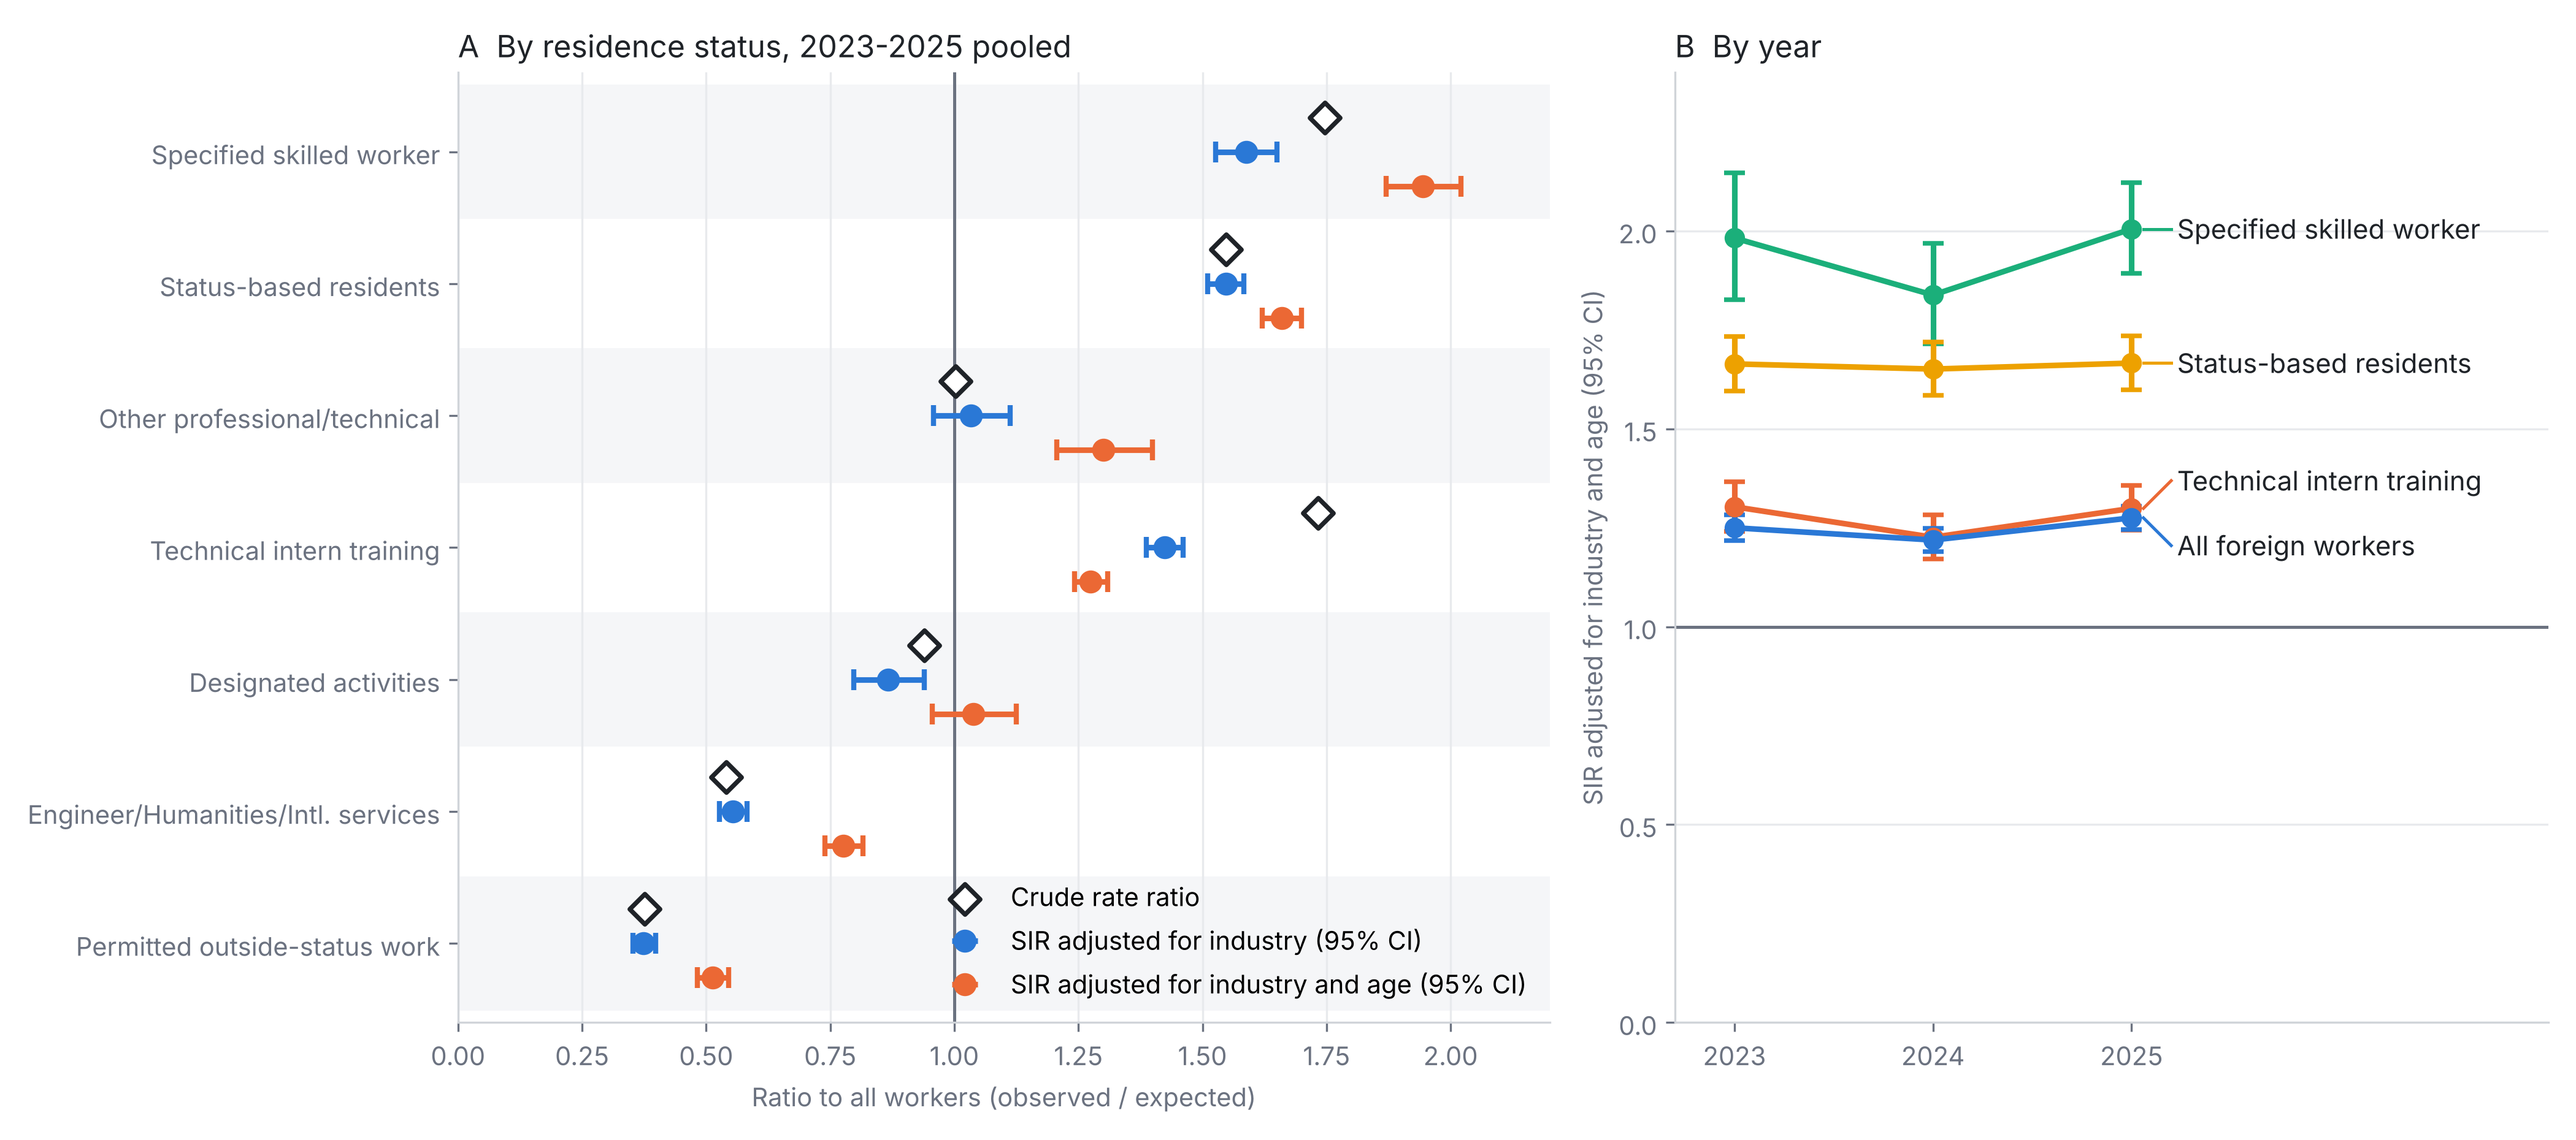
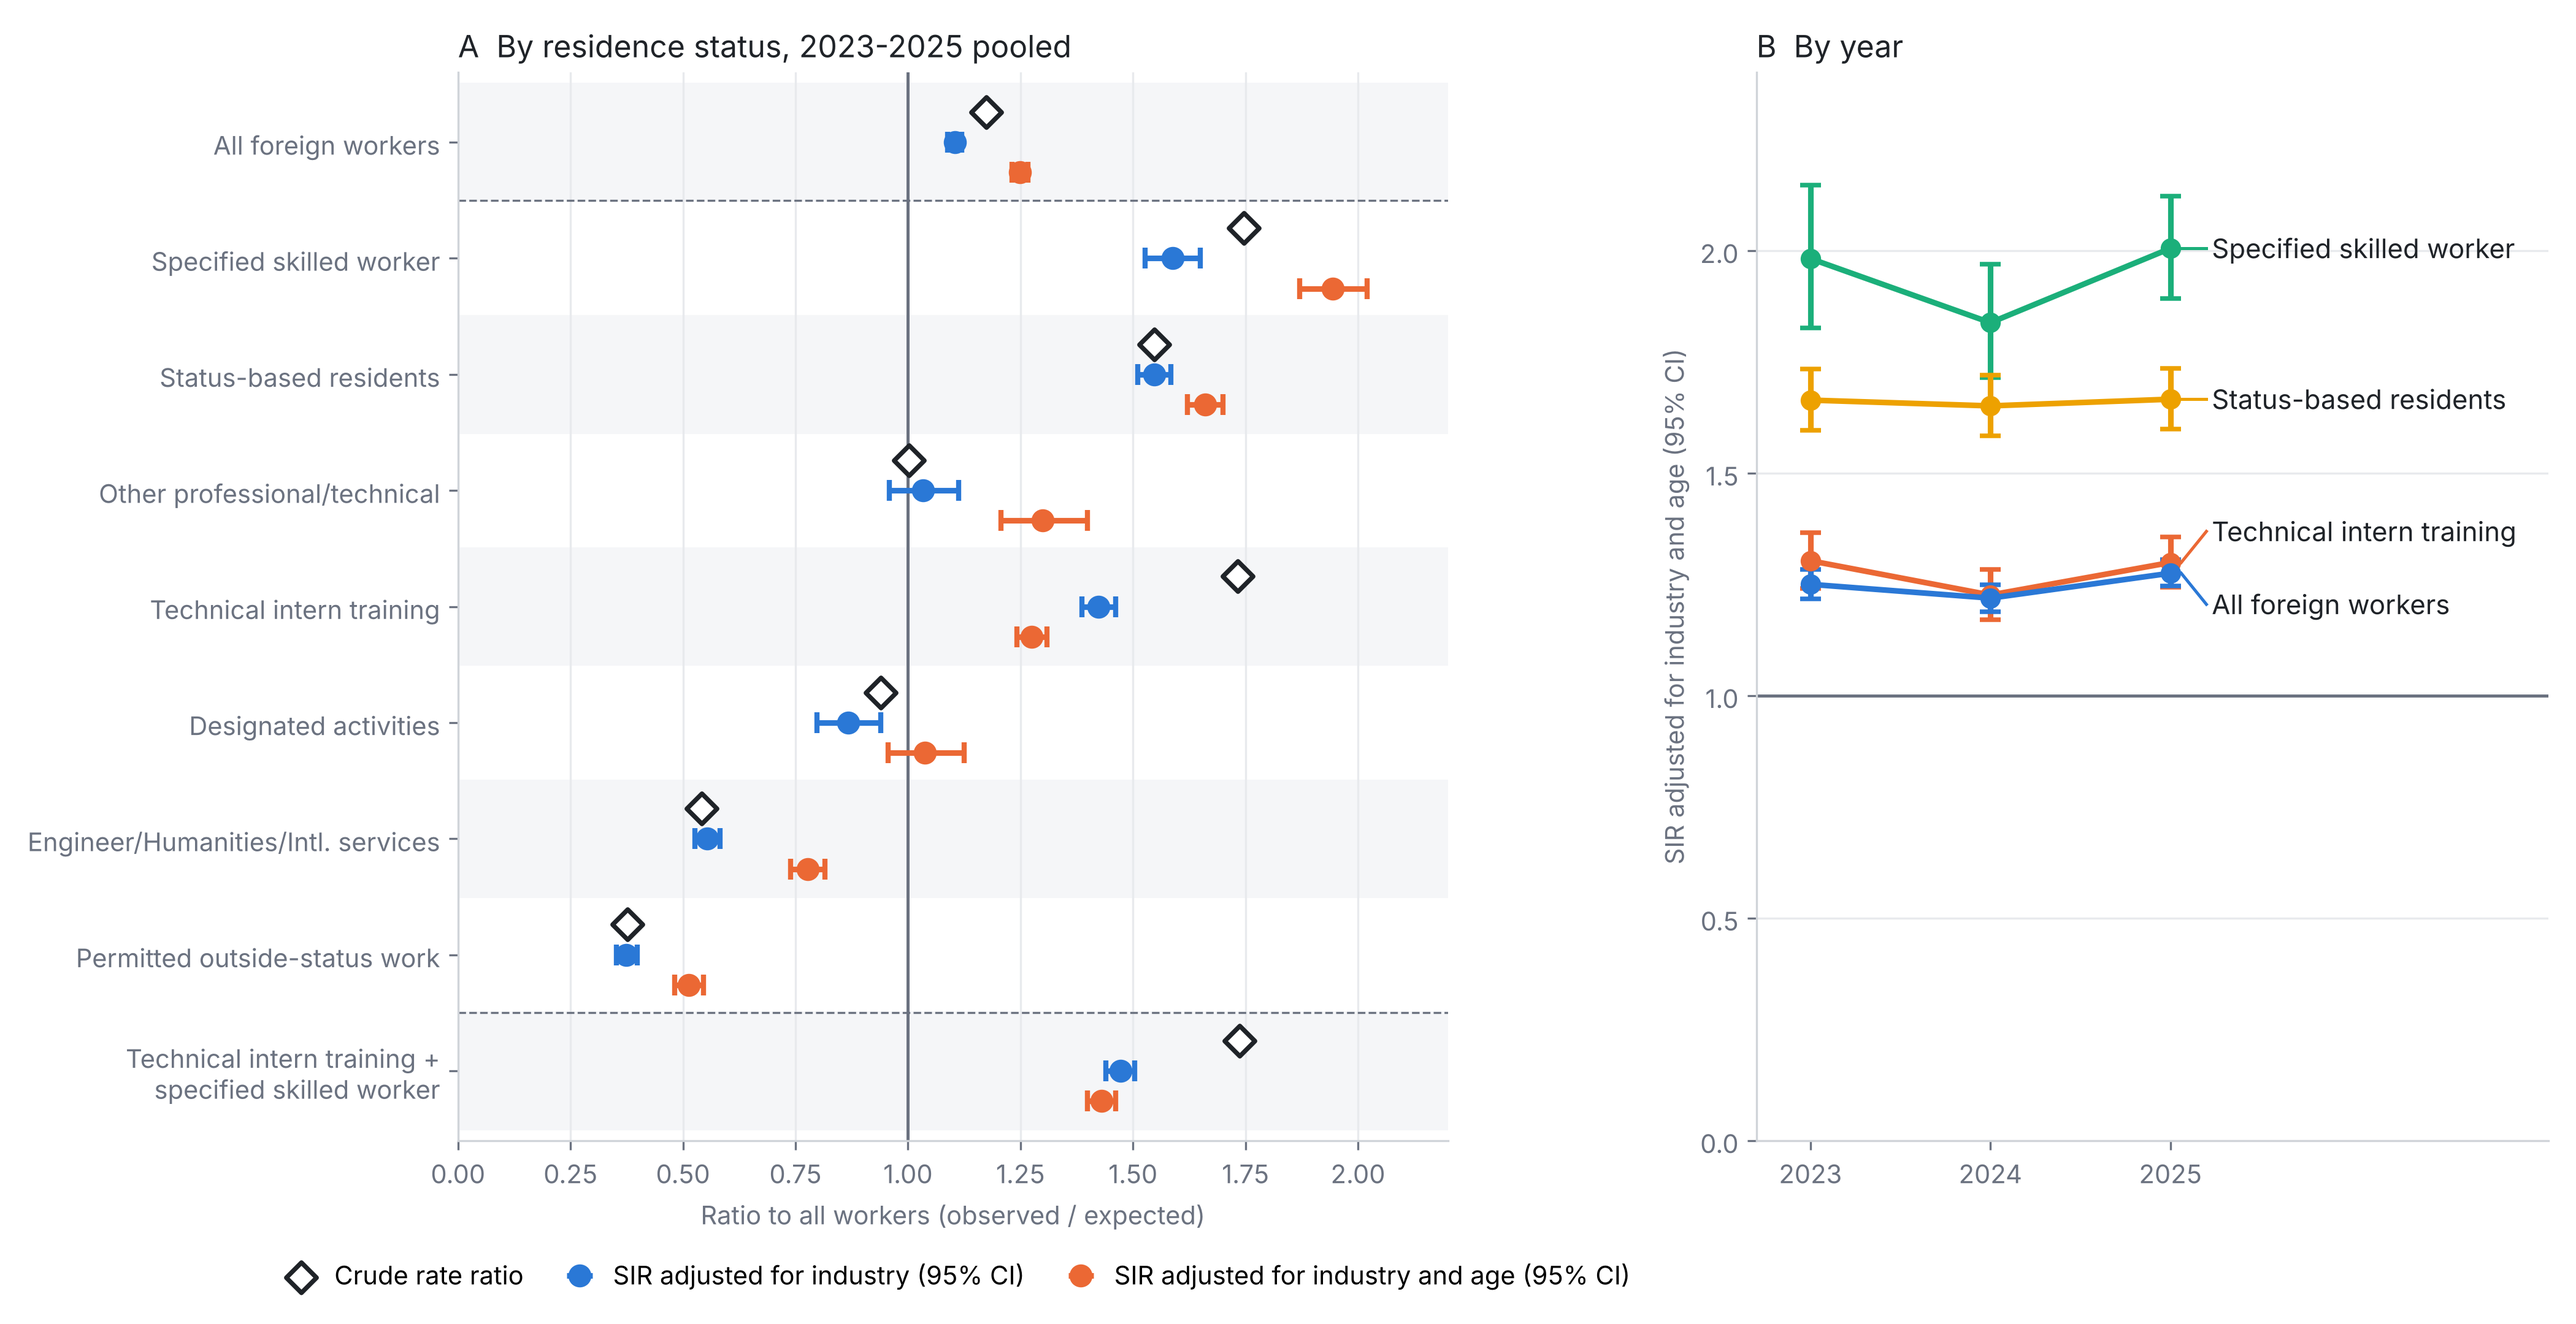
Revision 3: combined sensitivity scenarios, observed/expected table, industry-specific SIRs with residual industries; Figure 2A adds all foreign workers and TITP+SSW combined
Claude-Session: https://claude.ai/code/session_015Upkoxw6Fp7Qp7yZwAYpZS

diff --git a/analysis.py b/analysis.py
@@ -295,6 +295,28 @@ SENS["all_six_strata"] = {"obs_known_status": int(T.obs.sum()), "expected": roun
 SENS["all_denominator"]["by_weight_on_previous_october"] = {"%.2f" % w: round(A.obs.sum() / sum(r.e_age * (w * N_OCT[r.year - 1] + (1 - w) * N_OCT[r.year]) / N_OCT[r.year] for r in A.itertuples()), 3) for w in [0, 0.25, 1 / 3, 0.5]}
 # (d) overall estimate under alternative age factors applied to the eight-industry expected number
 SENS["all_age_factor"] = {"%.2f" % f: round(A.obs.sum() / (A.e_ind.sum() * f), 3) for f in [0.85, 0.88, 0.90, 0.95, 1.00]}
+# (e) combined scenarios for all foreign workers (revision 3): the least favourable assumptions taken together
+_o = A.obs.sum()
+SENS["all_combined"] = {
+    "agency_in_manufacturing_and_denominator_plus10pct": [round(v, 3) for v in sir_ci(_o, A.e_age_disp.sum() * 1.1)],
+    "denominator_plus10pct_and_age_factor_0.95": [round(v, 3) for v in sir_ci(_o, A.e_ind.sum() * 0.95 * 1.1)],
+    "agency_in_manufacturing_denominator_plus10pct_and_age_factor_0.95": [round(v, 3) for v in sir_ci(_o, A.e_ind_disp.sum() * 0.95 * 1.1)],
+}
+# (f) observed and expected numbers, pooled (for Supplementary Table S3)
+_t = pd.read_csv(OUT / "table_status_year.csv").groupby("status")[["obs", "e_ind", "e_age"]].sum()
+_t.loc["all"] = [A.obs.sum(), A.e_ind.sum(), A.e_age.sum()]
+_t["excess"] = _t.obs - _t.e_age
+_t.round(1).to_csv(OUT / "table_observed_expected_pooled.csv")
+# (g) industry-specific SIRs including the residual industries, pooled (for Supplementary Table S4)
+_i = pd.read_csv(OUT / "table_status_industry_year.csv").groupby(["status", "industry"])[["obs", "e_age"]].sum().reset_index()
+_tot = pd.read_csv(OUT / "table_status_year.csv").groupby("status")[["obs", "e_age"]].sum()
+_res = (_tot - _i.groupby("status")[["obs", "e_age"]].sum()).reset_index(); _res["industry"] = "oth"  # residual = status total minus the five named industries
+_i = pd.concat([_i, _res[_res.status.isin(_i.status.unique())]], ignore_index=True)
+_c = _i[_i.status.isin(["titp", "ssw"])].groupby("industry")[["obs", "e_age"]].sum().reset_index(); _c["status"] = "titp_ssw"
+_i = pd.concat([_i, _c], ignore_index=True)
+_i[["sir", "lo", "hi"]] = [[round(v, 2) for v in sir_ci(o, e)] for o, e in zip(_i.obs, _i.e_age)]
+_i["e_age"] = _i.e_age.round(1)
+_i.to_csv(OUT / "table_status_industry_pooled.csv", index=False)
 R["sensitivity_revision1"] = SENS
 (OUT / "results.json").write_text(json.dumps(R, indent=1, ensure_ascii=False, default=float))
 
@@ -326,12 +348,16 @@ a.set_xticks(x); a.set_xticklabels(AGE, fontsize=9); a.set_ylim(0, None); a.set_
 a.legend(frameon=False, fontsize=10, loc="upper center", ncol=3); a.set_title("B  Age-specific injury rates of all workers, 2025", loc="left", fontsize=12, color=INK)
 plt.tight_layout(); plt.savefig(OUT / "Figure1.png", dpi=300, facecolor=SUR); plt.close()
 
-fig, ax = plt.subplots(1, 2, figsize=(14, 6.2), facecolor=SUR, gridspec_kw={"width_ratios": [1.25, 1]})
+fig, ax = plt.subplots(1, 2, figsize=(14, 7.2), facecolor=SUR, gridspec_kw={"width_ratios": [1.25, 1]})
 a = ax[0]; style(a)
-order = sorted(STATUS, key=lambda s: -R["status"][s]["sir_age"][0]); yy = np.arange(len(order))[::-1]
+order = sorted(STATUS, key=lambda s: -R["status"][s]["sir_age"][0])
+# rows: all foreign workers, the seven statuses, and the two statuses combined
+ALLROW = dict(R["all"]["pooled"], crude_ratio=R["all"]["crude_ratio_pooled"])
+rows = [("All foreign workers", ALLROW)] + [(LABEL[s], R["status"][s]) for s in order] + [("Technical intern training +\nspecified skilled worker", R["status"]["titp_ssw"])]
+yy = np.arange(len(rows))[::-1]
 OFF = 0.26  # vertical offset so that the three estimates of a status do not overlap
-for j, s in zip(yy, order):
-    d = R["status"][s]; s0, s1, s2 = d["crude_ratio"], d["sir_ind"], d["sir_age"]
+for j, (nm, d) in zip(yy, rows):
+    s0, s1, s2 = d["crude_ratio"], d["sir_ind"], d["sir_age"]
     if j % 2 == 0:
         a.axhspan(j - 0.5, j + 0.5, color="#f5f6f8", zorder=0)
     a.scatter([s0], [j + OFF], s=70, facecolor=SUR, edgecolor=INK, linewidth=1.8, marker="D", zorder=3)
@@ -340,8 +366,9 @@ for j, s in zip(yy, order):
 a.scatter([], [], s=70, facecolor=SUR, edgecolor=INK, linewidth=1.8, marker="D", label="Crude rate ratio")
 a.errorbar([], [], xerr=[], fmt="o", color=BL, ms=8, lw=2.2, capsize=4, label="SIR adjusted for industry (95% CI)")
 a.errorbar([], [], xerr=[], fmt="o", color=OR, ms=8, lw=2.2, capsize=4, label="SIR adjusted for industry and age (95% CI)")
-a.axvline(1, color=MUT, lw=1.2); a.set_yticks(yy); a.set_yticklabels([LABEL[s] for s in order], fontsize=10); a.set_xlim(0, 2.2); a.set_ylim(-0.6, 6.6)
-a.grid(axis="y", visible=False); a.grid(axis="x", color="#e8eaed", lw=0.8); a.legend(frameon=False, fontsize=10, loc="lower right")
+a.axvline(1, color=MUT, lw=1.2); a.set_yticks(yy); a.set_yticklabels([nm for nm, _ in rows], fontsize=10); a.set_xlim(0, 2.2); a.set_ylim(-0.6, len(rows) - 0.4)
+a.axhline(len(rows) - 1.5, color=MUT, lw=0.8, ls="--"); a.axhline(0.5, color=MUT, lw=0.8, ls="--")
+a.grid(axis="y", visible=False); a.grid(axis="x", color="#e8eaed", lw=0.8); a.legend(frameon=False, fontsize=10, loc="upper center", bbox_to_anchor=(0.5, -0.09), ncol=3, columnspacing=1.2, handletextpad=0.3)
 a.set_xlabel("Ratio to all workers (observed / expected)", color=MUT); a.set_title("A  By residence status, 2023-2025 pooled", loc="left", fontsize=12, color=INK)
 a = ax[1]; style(a)
 series = [("ssw", AQ, LABEL["ssw"], 0.0), ("status_based", YL, LABEL["status_based"], 0.0), ("titp", OR, LABEL["titp"], 0.07), (None, BL, "All foreign workers", -0.07)]

diff --git a/README.md b/README.md
@@ -5,7 +5,7 @@ Industry- and age-standardized incidence ratios (SIRs) by residence status, comp
 ## Run
     pip install pandas scipy matplotlib statsmodels
     python analysis.py
-Outputs are written to `output/` (results.json, three tables, Figure1.png, Figure2.png).
+Outputs are written to `output/` (results.json, tables as CSV, Figure1.png, Figure2.png). `table_observed_expected_pooled.csv` gives the observed and expected numbers (Supplementary Table S3) and `table_status_industry_pooled.csv` the industry-specific SIRs including the residual industries (Supplementary Table S4); the combined sensitivity scenarios are in `results.json` under `sensitivity_revision1.all_combined`.
 
 ## Data (`data/`)
 | File | Content | Source |
